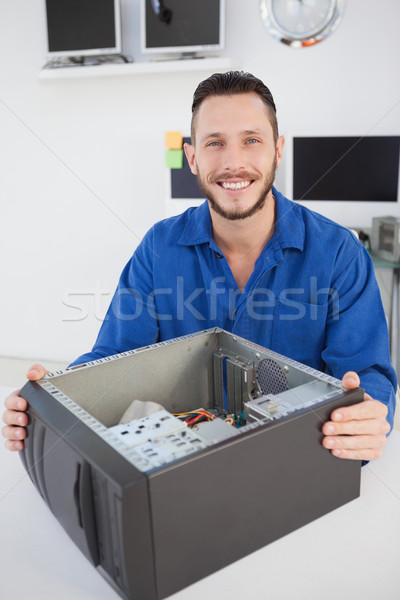
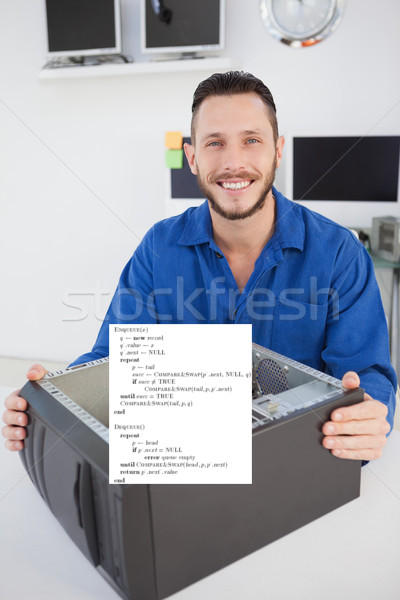
Updated presentation a lot

Changed region(s): [[0.27, 0.54, 0.63, 0.81]]

diff --git a/index.html b/index.html
@@ -28,6 +28,169 @@
 
 
 <section><section id="lock-free-magic" class="titleslide slide level1"><h1>Lock Free Magic</h1></section></section>
+<section><section id="why-do-we-need-multithreading" class="titleslide slide level1"><h1>Why Do We Need Multithreading?</h1></section><section class="slide level2">
+
+<figure>
+<img src="/presentation/break.gif" />
+</figure>
+</section><section class="slide level2">
+
+<figure>
+<img src="/presentation/cpulol.jpg" />
+</figure>
+</section></section>
+<section><section id="okay-im-going-to-multithread" class="titleslide slide level1"><h1>Okay I'm Going To Multithread</h1></section><section class="slide level2">
+
+<figure>
+<img src="/presentation/something.jpg" />
+</figure>
+</section></section>
+<section><section id="synchronize-your-code" class="titleslide slide level1"><h1>Synchronize your code!</h1></section><section class="slide level2">
+
+<figure>
+<img src="/presentation/mutex.png" />
+</figure>
+</section><section class="slide level2">
+
+<figure>
+<img src="/presentation/cantblocked.jpg" />
+</figure>
+</section></section>
+<section><section id="mutexes-are-slow" class="titleslide slide level1"><h1>Mutexes are slow!</h1></section><section class="slide level2">
+
+<figure>
+<img src="/presentation/trump1.png" />
+</figure>
+</section><section class="slide level2">
+
+<figure>
+<img src="/presentation/putin.png" />
+</figure>
+</section><section id="no-but-actually" class="slide level2">
+<h2>No but actually</h2>
+</section><section class="slide level2">
+
+<figure>
+<img src="/presentation/why_not_mutex.png" />
+</figure>
+<p>Under high concurrency ie <em>nodejs real dev language</em>.</p>
+</section></section>
+<section><section id="but-thats-upsetting" class="titleslide slide level1"><h1>But that's upsetting</h1></section><section class="slide level2">
+
+<figure>
+<img src="/presentation/theta.jpg" />
+</figure>
+</section></section>
+<section><section id="we-live-for-optimization" class="titleslide slide level1"><h1>We live for optimization</h1></section><section class="slide level2">
+
+<figure>
+<img src="/presentation/lock_free.png" />
+</figure>
+</section><section class="slide level2">
+
+<p>We aren't going to use a mutex!</p>
+</section><section id="well-use-this" class="slide level2">
+<h2>We'll use this</h2>
+<figure>
+<img src="/presentation/cas.png" />
+</figure>
+</section></section>
+<section><section id="are-you-ready-for-lock-free" class="titleslide slide level1"><h1>Are you ready for lock free?</h1></section><section id="are-you-sure" class="slide level2">
+<h2>Are you sure?</h2>
+</section><section id="i-dont-think-you-are" class="slide level2">
+<h2>I don't think you are</h2>
+</section><section class="slide level2">
+
+<figure>
+<img src="/presentation/pseudo.png" />
+</figure>
+</section><section id="see-werent-ready..." class="slide level2">
+<h2>See weren't ready...</h2>
+</section><section class="slide level2">
+
+<figure>
+<img src="/presentation/pseudo.png" />
+</figure>
+</section></section>
+<section><section id="how-does-an-insert-work" class="titleslide slide level1"><h1>How does an insert work?</h1></section><section class="slide level2">
+
+<figure>
+<img src="/presentation/list1.png" />
+</figure>
+</section><section class="slide level2">
+
+<figure>
+<img src="/presentation/list2.png" />
+</figure>
+</section><section class="slide level2">
+
+<figure>
+<img src="/presentation/pseudo.png" />
+</figure>
+</section><section class="slide level2">
+
+<figure>
+<img src="/presentation/list3.png" />
+</figure>
+</section><section class="slide level2">
+
+<figure>
+<img src="/presentation/pseudo.png" />
+</figure>
+</section><section class="slide level2">
+
+<figure>
+<img src="/presentation/list4.png" />
+</figure>
+</section><section class="slide level2">
+
+<figure>
+<img src="/presentation/pseudo.png" />
+</figure>
+</section><section class="slide level2">
+
+<figure>
+<img src="/presentation/list5.png" />
+</figure>
+</section><section class="slide level2">
+
+<figure>
+<img src="/presentation/list6.png" />
+</figure>
+</section></section>
+<section><section id="but-its-not-always-better" class="titleslide slide level1"><h1>But it's not always better</h1></section><section class="slide level2">
+
+<figure>
+<img src="/presentation/dequeue32.png" />
+</figure>
+</section><section class="slide level2">
+
+<figure>
+<img src="/presentation/knifejuggle3.png" />
+</figure>
+</section><section class="slide level2">
+
+<figure>
+<img src="/presentation/knifejuggle4.png" />
+</figure>
+</section></section>
+<section><section id="thats-it" class="titleslide slide level1"><h1>That's it!</h1></section><section class="slide level2">
+
+<figure>
+<img src="/presentation/smiling.jpg" />
+</figure>
+</section><section class="slide level2">
+
+<figure>
+<img src="/presentation/cloud.jpg" />
+</figure>
+</section><section class="slide level2">
+
+<figure>
+<img src="/presentation/data.jpg" />
+</figure>
+</section></section>
+<section><section id="questions-bvenkat2illinois.edu" class="titleslide slide level1"><h1>Questions? bvenkat2@illinois.edu</h1></section></section>
     </div>
   </div>
 

diff --git a/lock_free.md b/lock_free.md
@@ -1,1 +1,161 @@
 # Lock Free Magic
+
+# Why Do We Need Multithreading?
+
+---
+
+![](/presentation/break.gif)
+
+---
+
+![](/presentation/cpulol.jpg)
+
+# Okay I'm Going To Multithread
+
+---
+
+![](/presentation/something.jpg)
+
+
+# Synchronize your code!
+
+---
+
+![](/presentation/mutex.png)
+
+---
+
+![](/presentation/cantblocked.jpg)
+
+# Mutexes are slow!
+
+---
+
+![](/presentation/trump1.png)
+
+---
+
+![](/presentation/putin.png)
+
+## No but actually
+
+---
+
+![](/presentation/why_not_mutex.png)
+
+Under high concurrency ie _nodejs real dev language_.
+
+# But that's upsetting
+
+---
+
+![](/presentation/theta.jpg)
+
+# We live for optimization
+
+---
+
+![](/presentation/lock_free.png)
+
+---
+
+We aren't going to use a mutex!
+
+---
+
+## We'll use this
+
+![](/presentation/cas.png)
+
+# Are you ready for lock free?
+
+---
+
+## Are you sure?
+
+---
+
+## I don't think you are
+
+---
+
+![](/presentation/pseudo.png)
+
+---
+
+## See weren't ready...
+
+---
+
+![](/presentation/pseudo.png)
+
+
+# How does an insert work?
+
+---
+
+![](/presentation/list1.png)
+
+---
+
+![](/presentation/list2.png)
+
+---
+
+![](/presentation/pseudo.png)
+
+---
+
+![](/presentation/list3.png)
+
+---
+
+![](/presentation/pseudo.png)
+
+---
+
+![](/presentation/list4.png)
+
+---
+
+![](/presentation/pseudo.png)
+
+---
+
+![](/presentation/list5.png)
+
+---
+
+![](/presentation/list6.png)
+
+# But it's not always better
+
+---
+
+![](/presentation/dequeue32.png)
+
+---
+
+![](/presentation/knifejuggle3.jpg)
+
+---
+
+![](/presentation/knifejuggle4.jpg)
+
+# That's it!
+
+---
+
+![](/presentation/smiling.jpg)
+
+---
+
+![](/presentation/cloud.jpg)
+
+---
+
+![](/presentation/data.jpg)
+
+
+
+# Questions? bvenkat2 @illinois.edu
